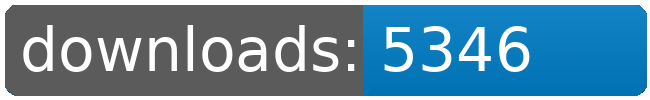
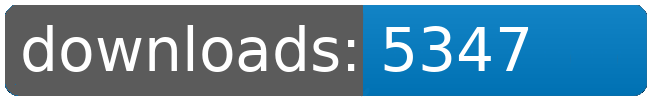
dl log written

Changed region(s): [[0.7692, 0.24, 0.8308, 0.72]]

diff --git a/README.md b/README.md
@@ -21,8 +21,8 @@
 		<td>5278</td>
 		<td>5305</td>
 		<td>5336</td>
-		<td>5346</td>
-		<td>+ 10</td>
+		<td>5347</td>
+		<td>+ 11</td>
 	</tr>
 	<tr>
 		<td>Factory.Outlets</td>
@@ -109,8 +109,8 @@
 		<td></td>
 		<td></td>
 		<td></td>
-		<td>42776</td>
-		<td>62</td>
+		<td>42777</td>
+		<td>63</td>
 	</tr>
 </table>
 </sub></sup>
@@ -157,8 +157,8 @@
 		<td>5278</td>
 		<td>5305</td>
 		<td>5336</td>
-		<td>5346</td>
-		<td>+ 10</td>
+		<td>5347</td>
+		<td>+ 11</td>
 	</tr>
 	<tr>
 		<td>Korunak.Defense.Drones</td>
@@ -223,8 +223,8 @@
 		<td></td>
 		<td></td>
 		<td></td>
-		<td>42776</td>
-		<td>62</td>
+		<td>42777</td>
+		<td>63</td>
 	</tr>
 </table>
 </sub></sup>
